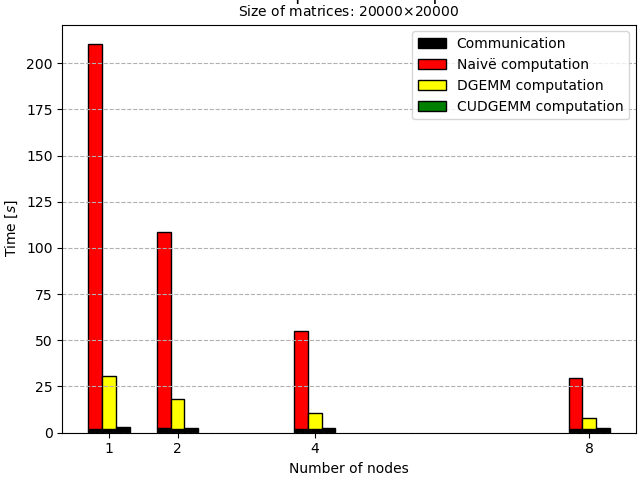
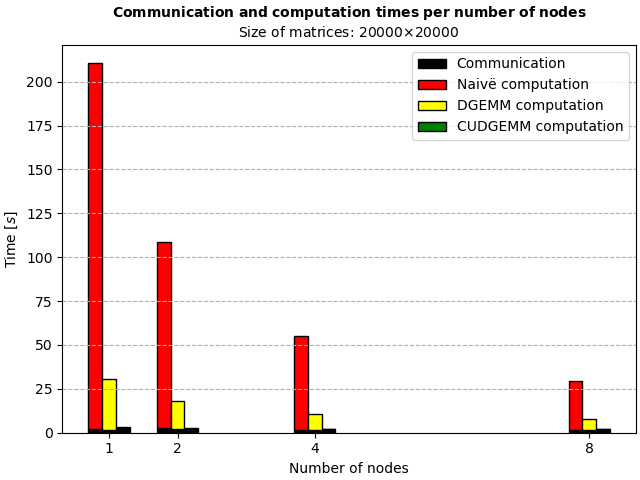
Adjusted plots title and new plots

diff --git a/analysis/bar_plot.py b/analysis/bar_plot.py
@@ -64,8 +64,9 @@ for s in range(sections):
 	ax.legend(loc = "upper right")
 	ax.grid(linestyle = '--', axis = 'y')
 
-	title(f"Size of matrices: {n}"+r"$\times$"+f"{n}", fontsize = 10)
-	suptitle('Communication and computation times per number of nodes', fontsize = 13, y = 1.03, x = 0.54)
+	title(r"$\bf{Communication}$ $\bf{and}$ $\bf{computation}$ $\bf{times}$ $\bf{per}$" + \
+		  	r' $\bf{number}$ ' + r'$\bf{of}$ $\bf{nodes}$'+ f"\nSize of matrices: {n}"+r"$\times$"+f"{n}", fontsize = 10)
+
 	savefig(f'analysis/{n}.png')
     # show()
 
